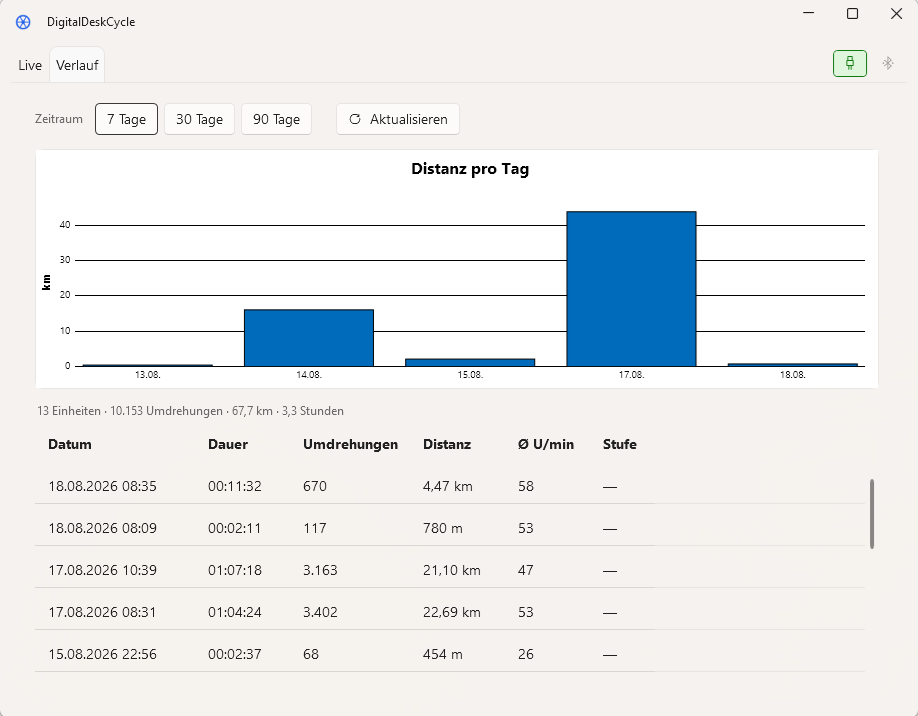
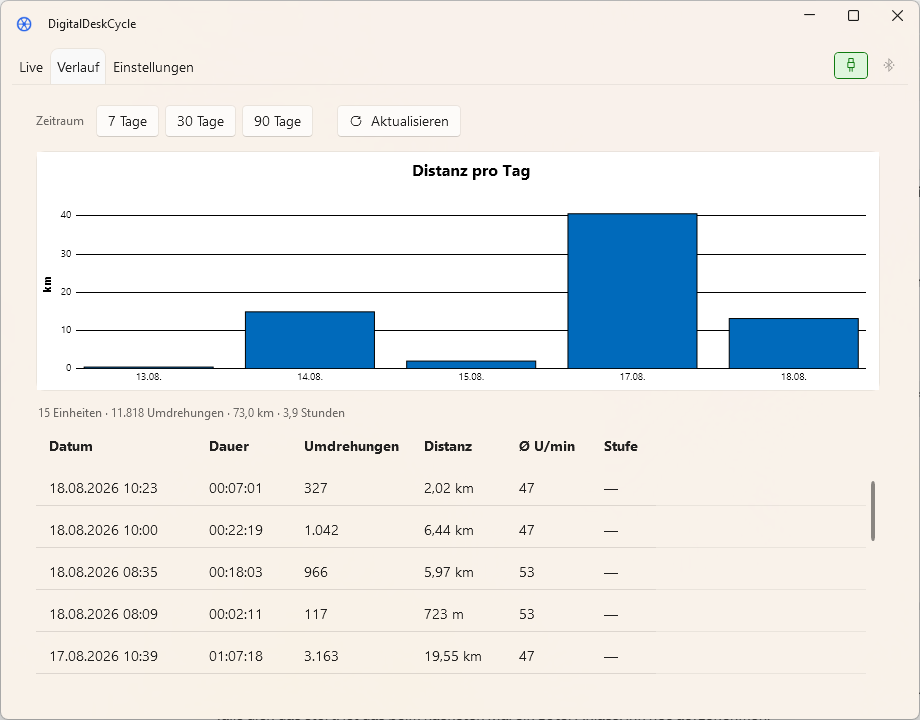
Prepare 1.1.0 with fresh screenshots
All three views captured again: the old pictures showed two tabs, and
their figures still came from the estimated conversion factor. The new
ones agree with the documentation -- 48 rpm reading as 17.8 km/h is
exactly the measured 6.18 metres per revolution.

The settings page joins them, so the section describing it shows what it
describes.

Version set to 1.1.0 and the changelog section dated. The tag is what
triggers the release.

diff --git a/README.md b/README.md
@@ -80,6 +80,7 @@ duration. That this duration exceeds the active time in the live view is not a
 contradiction — they answer two different questions.
 
 ![The history: distance per day as a bar chart, below it the individual sessions with duration, revolutions, distance and average cadence](docs/history.png)
+
 **Einstellungen** (*Settings*) holds what used to require an editor: the web
 server with its status and switch, body weight, conversion factor, COM port,
 Bluetooth device name, the end of the speed bar and the autostart entry.
@@ -91,6 +92,7 @@ conversion factor recalculates the live view on the spot. Where it is not, the
 page says so: the port and the device name are picked up when the source next
 reconnects, so a running recording is not interrupted.
 
+![The settings page: web server with status and switch, body weight, conversion factor, COM port and Bluetooth device name, each with a line explaining what it does](docs/settings.png)
 
 ## Where the data comes from
 

diff --git a/CHANGELOG.md b/CHANGELOG.md
@@ -2,7 +2,7 @@
 
 Notable changes per release. Dates are in ISO format.
 
-## Unreleased
+## 1.1.0 — 2026-08-18
 
 ### Added
 
